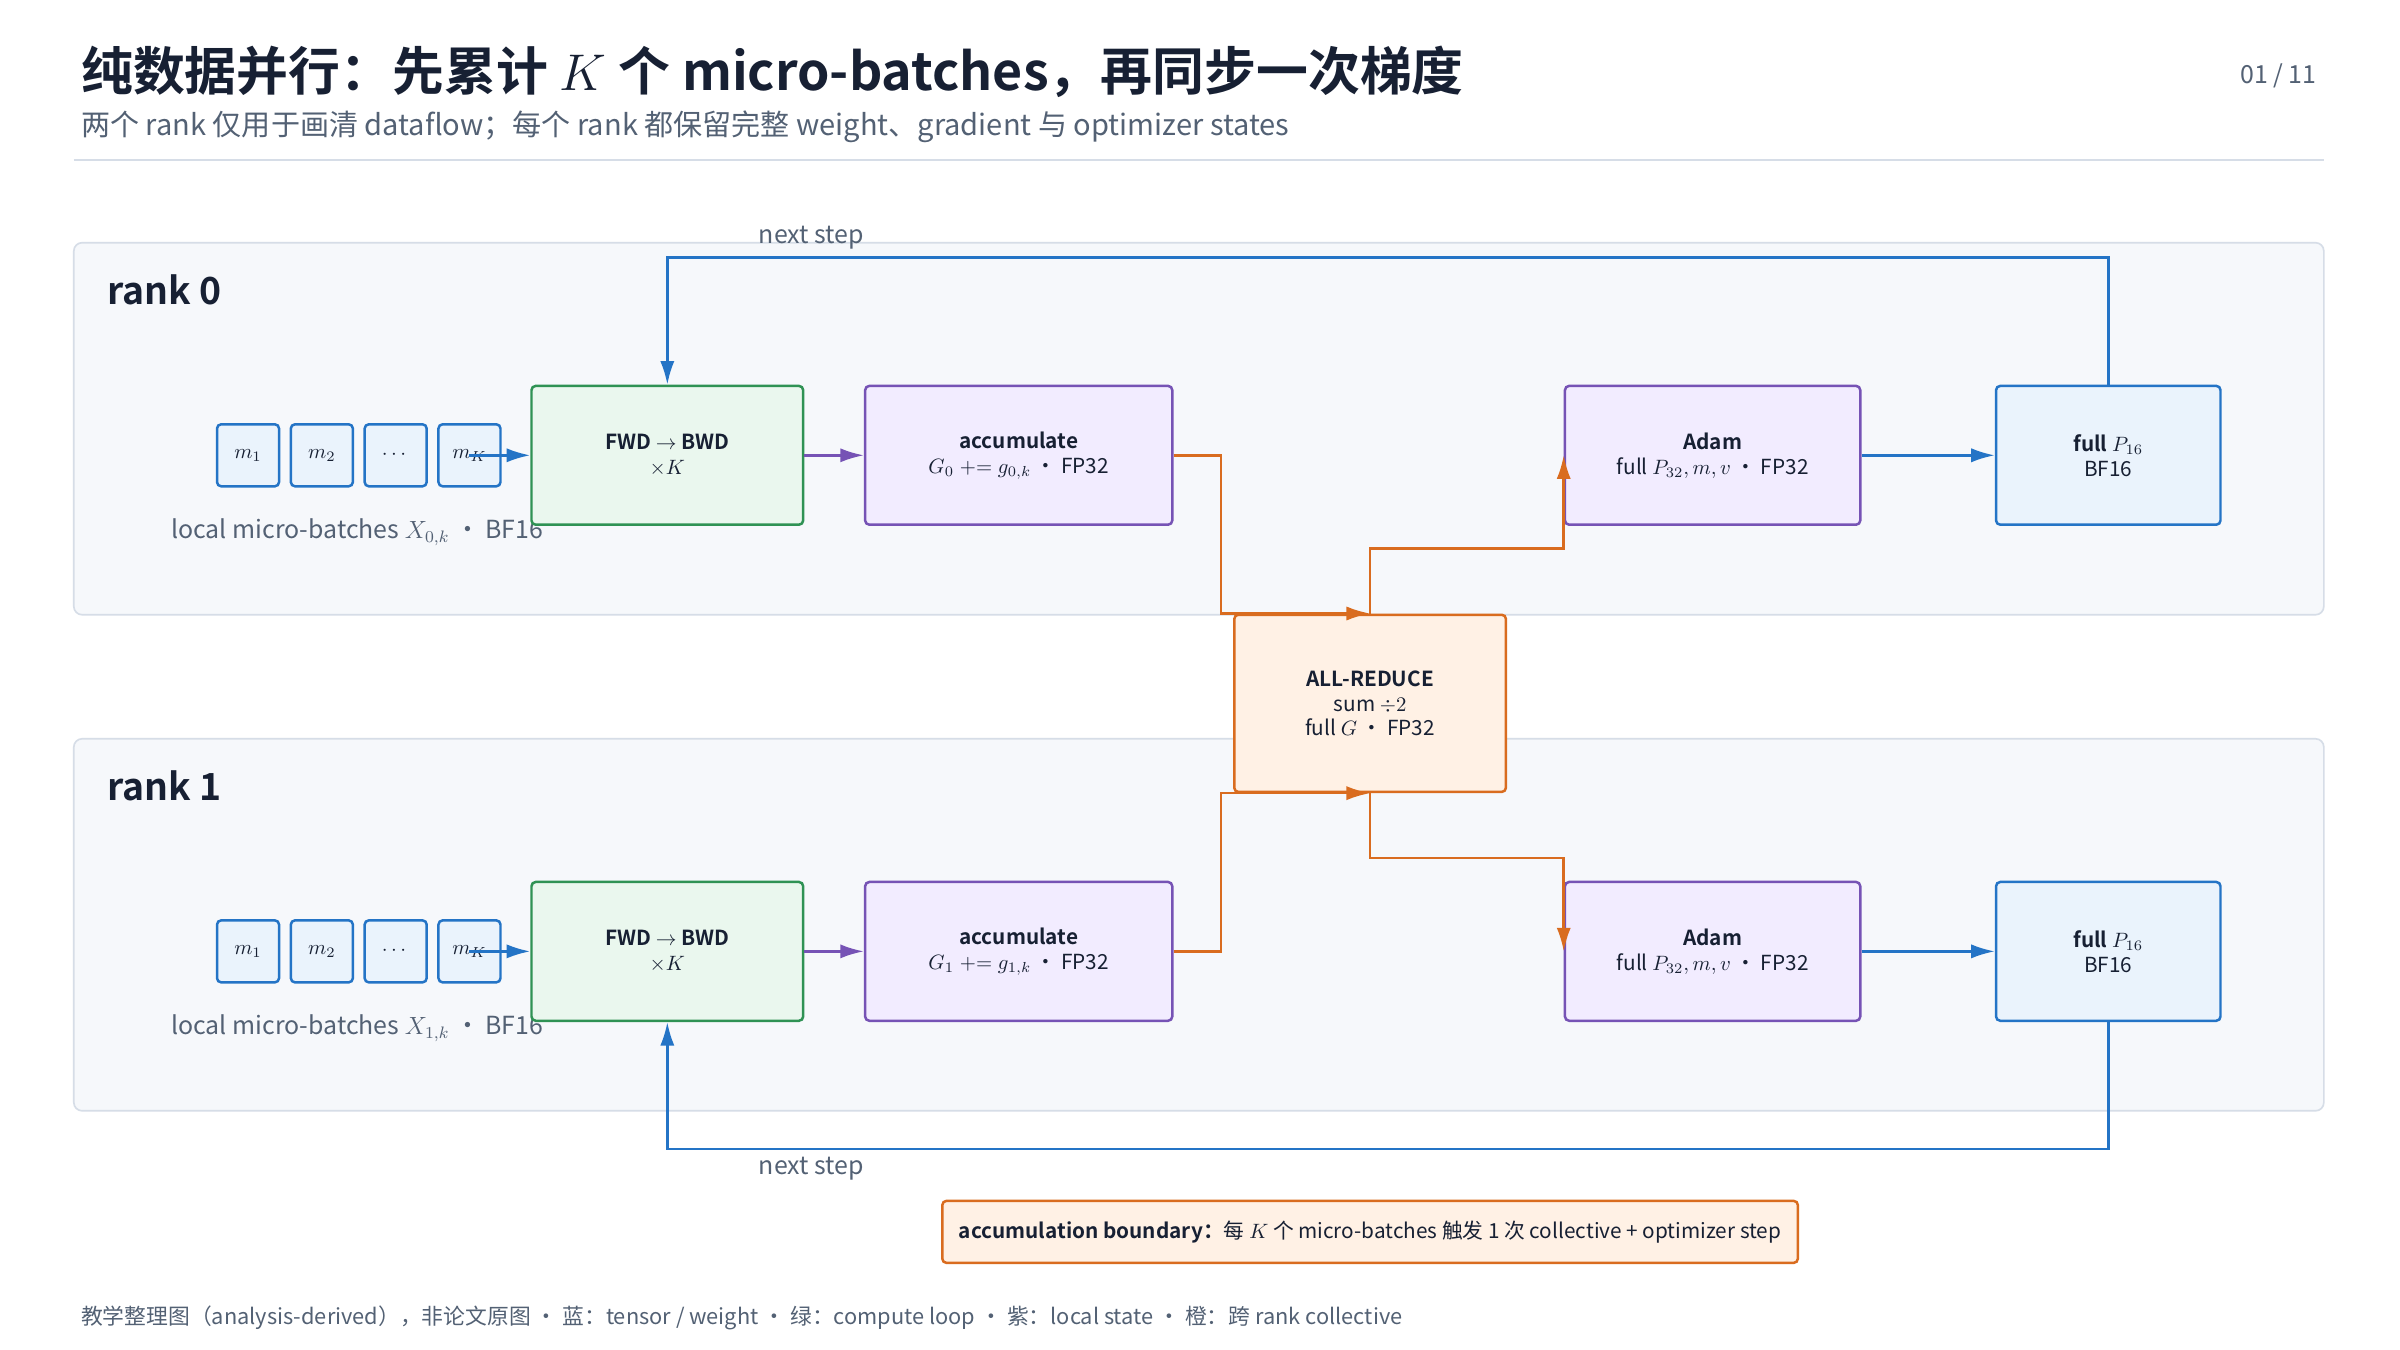
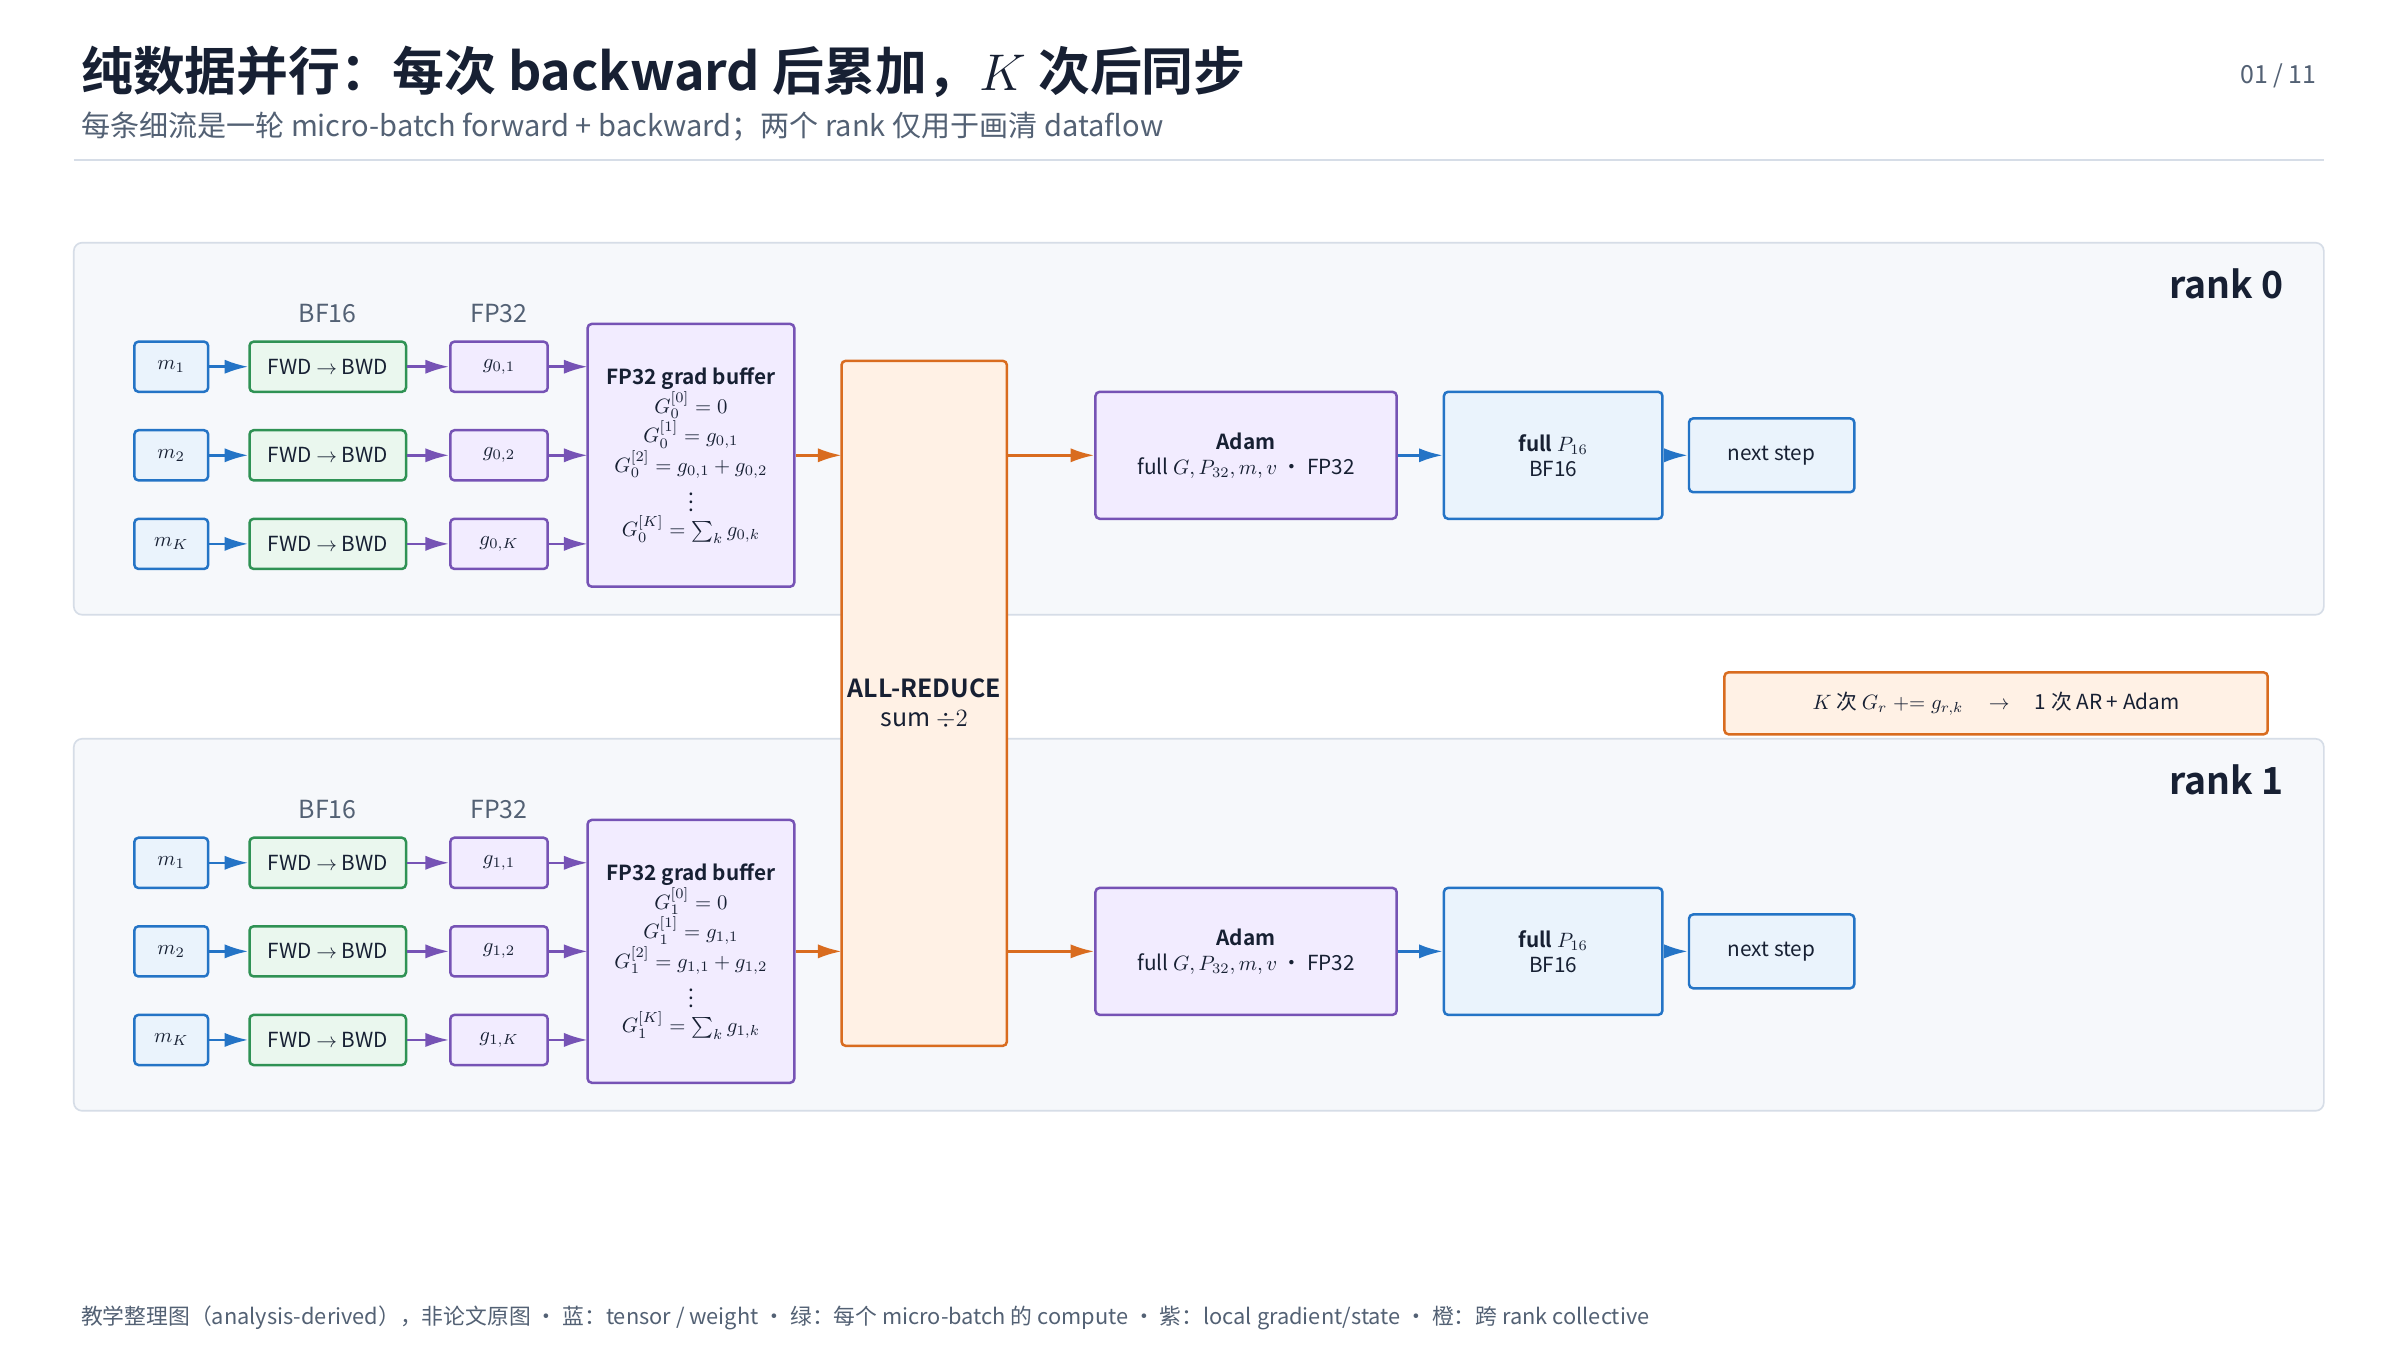
docs(parallelism): visualize micro-batch accumulation

diff --git a/01_ai_infra/parallelism/evidence/figure-inventory.md b/01_ai_infra/parallelism/evidence/figure-inventory.md
@@ -44,7 +44,7 @@ canonical: true
 
 以下 11 张 PNG 全部由 [并行切分方法体系](../surveys/parallel-partitioning-taxonomy.md) 独占，使用 TikZ 排版并以 `2400×1350` 输出。它们是 analysis-derived 教学整理图，不是原论文 Figure/Table，不计入论文视觉证据数量。TikZ 源码、PDF、过程渲染、contact sheet 与像素检查保留在 process workspace。
 
-2026-08-03 的 `1.5.0` 修订参考用户提供稿的 rank lane 与 feedback loop 视觉语法重绘普通 DP 和 ZeRO-1，补入 $K$ 个 micro-batches 的本地梯度累积，并依据 Megatron Core 固定 commit `b19b1f47cf7e289607f3be480c5f06c6ada25b16` 将 ZeRO-1 修正为 gradient reduce-scatter、owner-local update 和 parameter all-gather。`1.4.0` 修订把 DP/ZeRO 汇总图拆成普通 DP、ZeRO-1、ZeRO-2、ZeRO-3 四张 workflow，固定 BF16 compute 与 FP32 gradient/optimizer 的示例 dtype，显式展示 forward、backward、optimizer、collective payload、owner 和 buffer 生命周期。2026-08-02 的 `1.3.0` 修订把原 SVG 重绘为 TikZ，并将各图统一为“全局 tensor/state -> rank-local ownership 与具体 shape -> local operator -> collective/P2P 的发送者、接收者和合并规则 -> 恢复语义”。`1.2.0` 参考的 [Colossal-AI Parallelism](https://colossalai.org/docs/concepts/paradigms_of_parallelism) 仍只作为视觉组织参考；tensor 关系、成本注释和边界条件来自本领域 canonical Paper/Topic/Evidence 的综合分析，没有复制网页图片，也不把这些整理图作为外部证据。
+2026-08-03 的 `1.6.0` 修订把普通 DP 与 ZeRO-1 的 $m_1$、$m_2$、$m_K$ 分别画成独立的 `FWD -> BWD -> g_{r,k}` 路径，并用 $G_r^{[0]}$、$G_r^{[1]}$、$G_r^{[2]}$、$G_r^{[K]}$ 显式展示每次 backward 后的累计状态；所有 dataflow 改为 lane 内水平箭头，移除把 updated weight 误接到 micro-batch 输入的回环。`1.5.0` 修订参考用户提供稿的 rank lane 与 feedback loop 视觉语法重绘普通 DP 和 ZeRO-1，补入 $K$ 个 micro-batches 的本地梯度累积，并依据 Megatron Core 固定 commit `b19b1f47cf7e289607f3be480c5f06c6ada25b16` 将 ZeRO-1 修正为 gradient reduce-scatter、owner-local update 和 parameter all-gather。`1.4.0` 修订把 DP/ZeRO 汇总图拆成普通 DP、ZeRO-1、ZeRO-2、ZeRO-3 四张 workflow，固定 BF16 compute 与 FP32 gradient/optimizer 的示例 dtype，显式展示 forward、backward、optimizer、collective payload、owner 和 buffer 生命周期。2026-08-02 的 `1.3.0` 修订把原 SVG 重绘为 TikZ，并将各图统一为“全局 tensor/state -> rank-local ownership 与具体 shape -> local operator -> collective/P2P 的发送者、接收者和合并规则 -> 恢复语义”。`1.2.0` 参考的 [Colossal-AI Parallelism](https://colossalai.org/docs/concepts/paradigms_of_parallelism) 仍只作为视觉组织参考；tensor 关系、成本注释和边界条件来自本领域 canonical Paper/Topic/Evidence 的综合分析，没有复制网页图片，也不把这些整理图作为外部证据。
 
 | Owner | Asset | 用途 | 分辨率 | 声明 | QA |
 |---|---|---|---|---|---|

diff --git a/01_ai_infra/parallelism/surveys/parallel-partitioning-taxonomy.md b/01_ai_infra/parallelism/surveys/parallel-partitioning-taxonomy.md
@@ -72,11 +72,11 @@ canonical: true
 
 ![普通 DP 混合精度训练 workflow 与 dataflow|1349](../assets/surveys/parallel-partitioning-taxonomy/dp-training-workflow.png)
 
-> 普通 DP 基线：显式展示 batch shard、forward、backward、FP32 gradient all-reduce、Adam update、BF16 cast，以及每个 rank 复制持有的状态。
+> 普通 DP 基线：每个 micro-batch 分别执行 forward/backward 并产生 $g_{r,k}$，随后立即写入同一个 FP32 buffer；buffer 状态依次从 $G_r^{[0]}=0$ 变为 $G_r^{[1]}$、$G_r^{[2]}$，直至 $G_r^{[K]}=\sum_k g_{r,k}$，之后才执行一次 all-reduce 和 Adam update。
 
 ![ZeRO-1 训练 workflow 与 dataflow|1349](../assets/surveys/parallel-partitioning-taxonomy/zero1-training-workflow.png)
 
-> ZeRO-1：每个 rank 先累计 $K$ 个 micro-batches 的完整 local FP32 gradient；Megatron Core 的 distributed optimizer 随后直接 reduce-scatter 到 optimizer owner，owner 只更新自己的 FP32 master weight 与 Adam moments，最后 all-gather 更新后的 BF16 parameter shards。reduce-scatter 等价于 all-reduce 后取 local slice，但不必在每卡落地完整的已归约 gradient。对同样大小的 gradient，ring reduce-scatter 的每 rank payload 约为 $(p-1)q\Psi/p$，是 ring all-reduce 的一半；整步还需另计 parameter all-gather。
+> ZeRO-1：每个 micro-batch 的 backward 结束后，同样立即把 $g_{r,k}$ 加入完整 local FP32 buffer；第 $K$ 次累加完成后，Megatron Core 的 distributed optimizer 才直接 reduce-scatter 到 optimizer owner。owner 只更新自己的 FP32 master weight 与 Adam moments，最后 all-gather 更新后的 BF16 parameter shards。reduce-scatter 等价于 all-reduce 后取 local slice，但不必在每卡落地完整的已归约 gradient。对同样大小的 gradient，ring reduce-scatter 的每 rank payload 约为 $(p-1)q\Psi/p$，是 ring all-reduce 的一半；整步还需另计 parameter all-gather。
 
 ![ZeRO-2 训练 workflow 与 dataflow|1349](../assets/surveys/parallel-partitioning-taxonomy/zero2-training-workflow.png)
 
